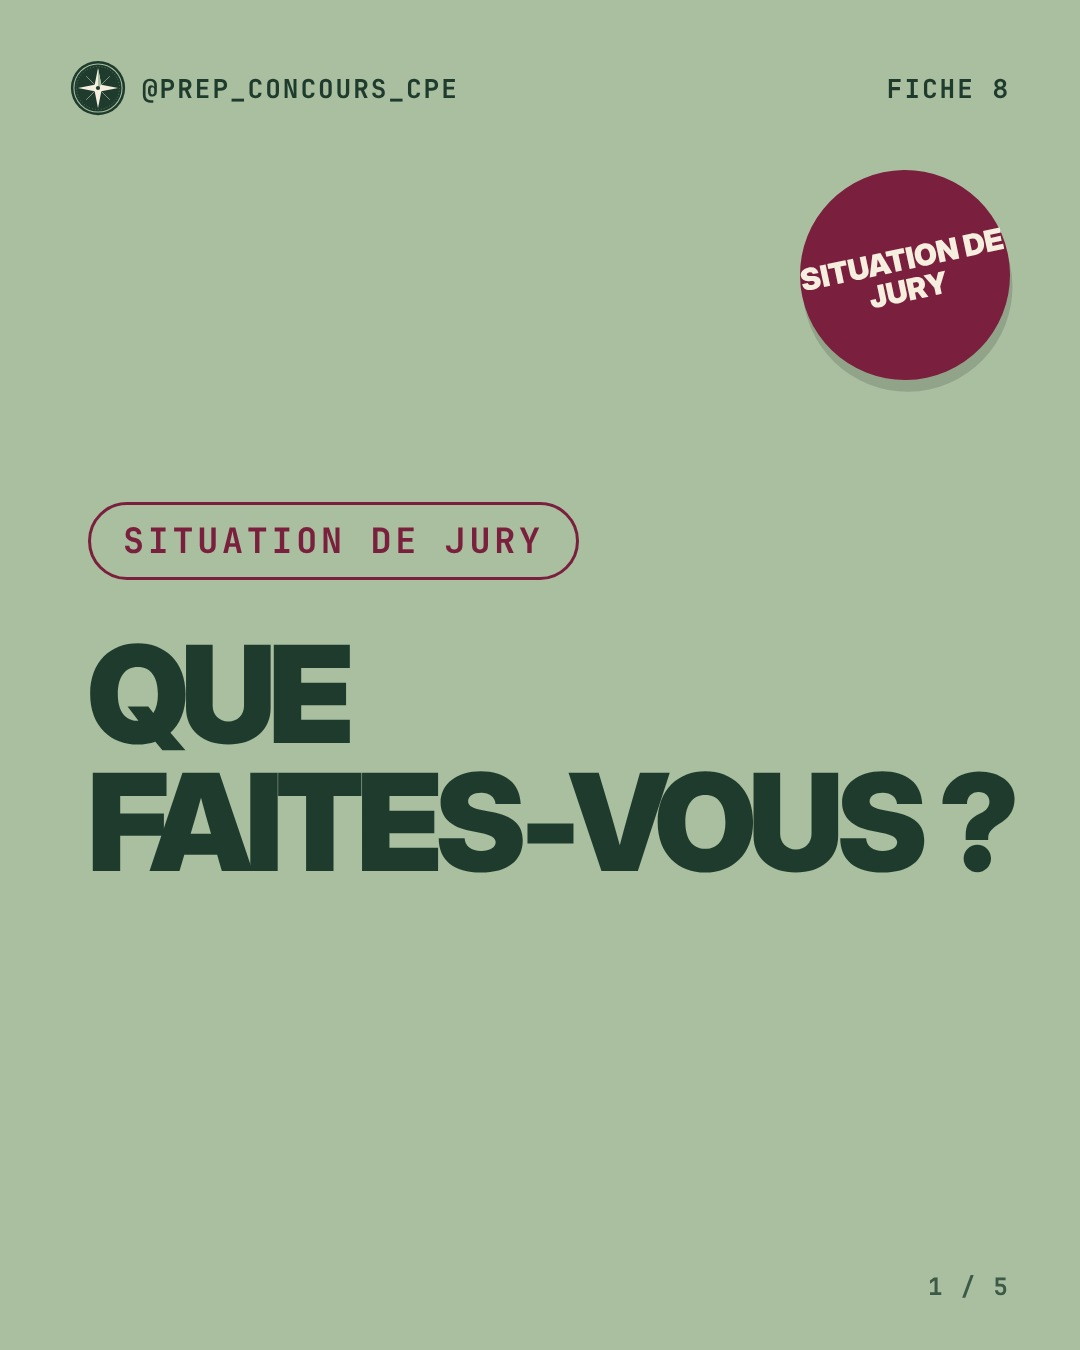
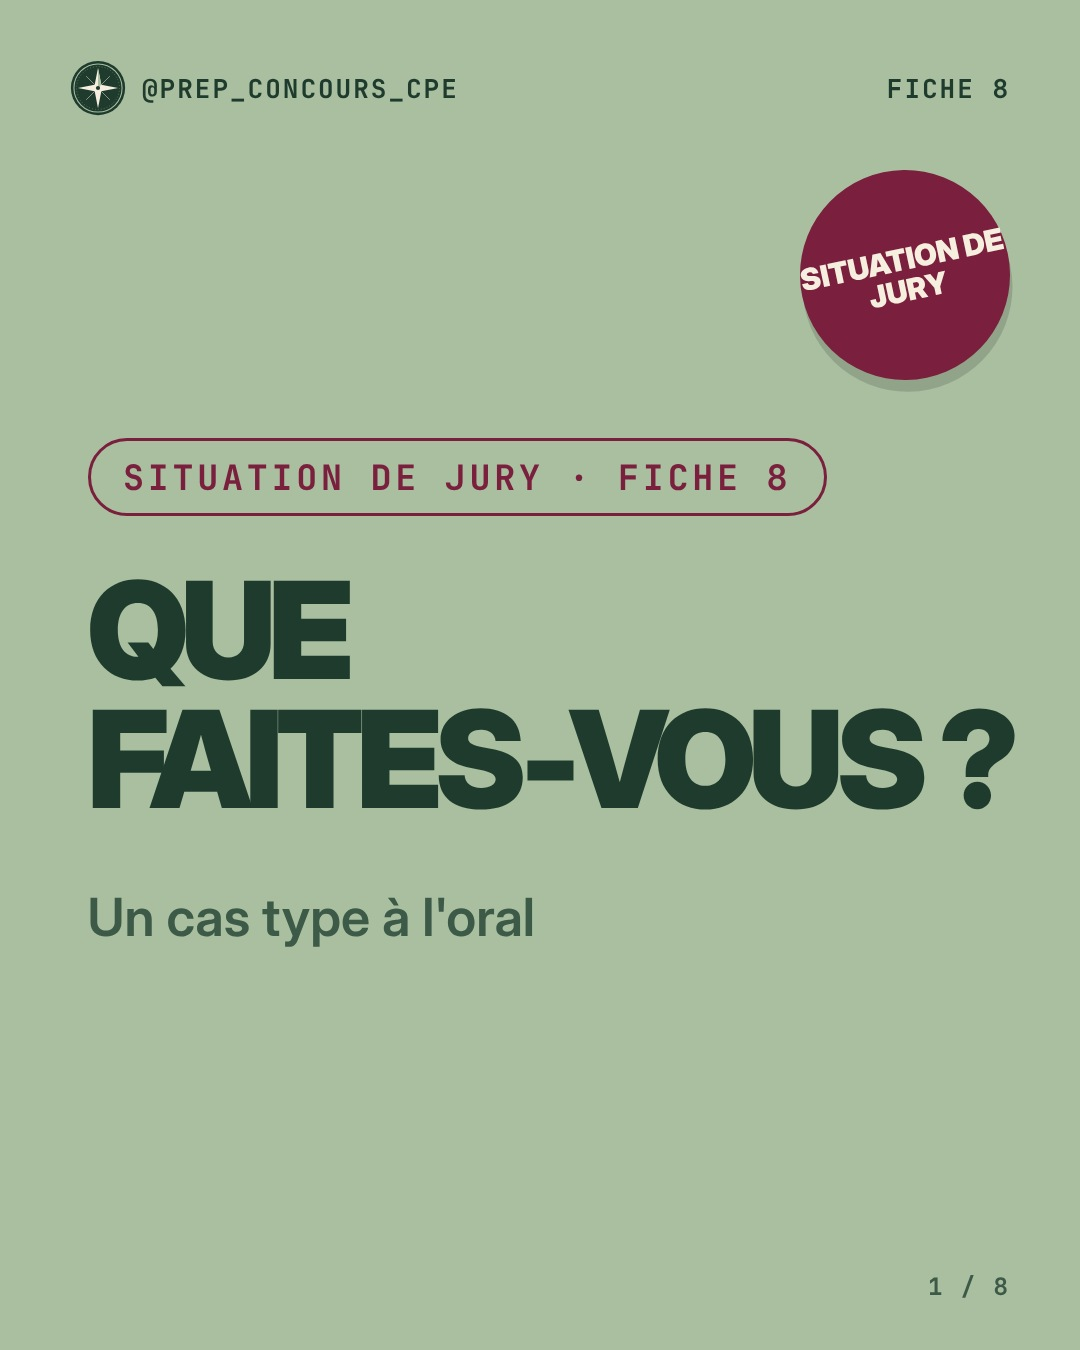
Carrousel 16 nov : situation de jury enrichie (8 images, brouillon)

diff --git a/posts/auto/2026-11-16/LEGENDE.md b/posts/auto/2026-11-16/LEGENDE.md
@@ -1,3 +1,3 @@
-Situation de jury : des élèves de 3e ont créé un groupe de messagerie avec des insultes antisémites visant une élève de la classe. Sa famille vous alerte. Que faites-vous ? Protéger l'élève, conserver les preuves, signaler au procureur, entendre les auteurs, agir sur la classe. La démarche complète est dans la fiche 8 de Prep'CPE. Quel serait ton tout premier geste ? Dis-le en commentaire. Lien en bio.
+Situation de jury : des élèves de 3e ont créé un groupe de messagerie avec des insultes antisémites et des montages visant une élève de la classe. Sa famille vous alerte. Que faites-vous ? Protéger l'élève et informer le chef d'établissement. Conserver les preuves, signaler au procureur, sur Pharos et dans Faits établissement. Entendre les auteurs, engager la procédure disciplinaire si besoin, puis agir sur la classe. Le rôle du CPE : valeurs de la République (CC1), protection et signalement (CC6), règlement intérieur (C2). Candidats et candidates, enregistre ce post pour ton oral. La démarche complète est dans la fiche 8 de Prep'CPE. Quel serait ton tout premier geste ? Dis-le en commentaire. Lien en bio.
 
 #concourscpe #cpe2027 #prepaconcours #conseillerprincipaldeducation #viescolaire #oral #discriminations #antisemitisme
